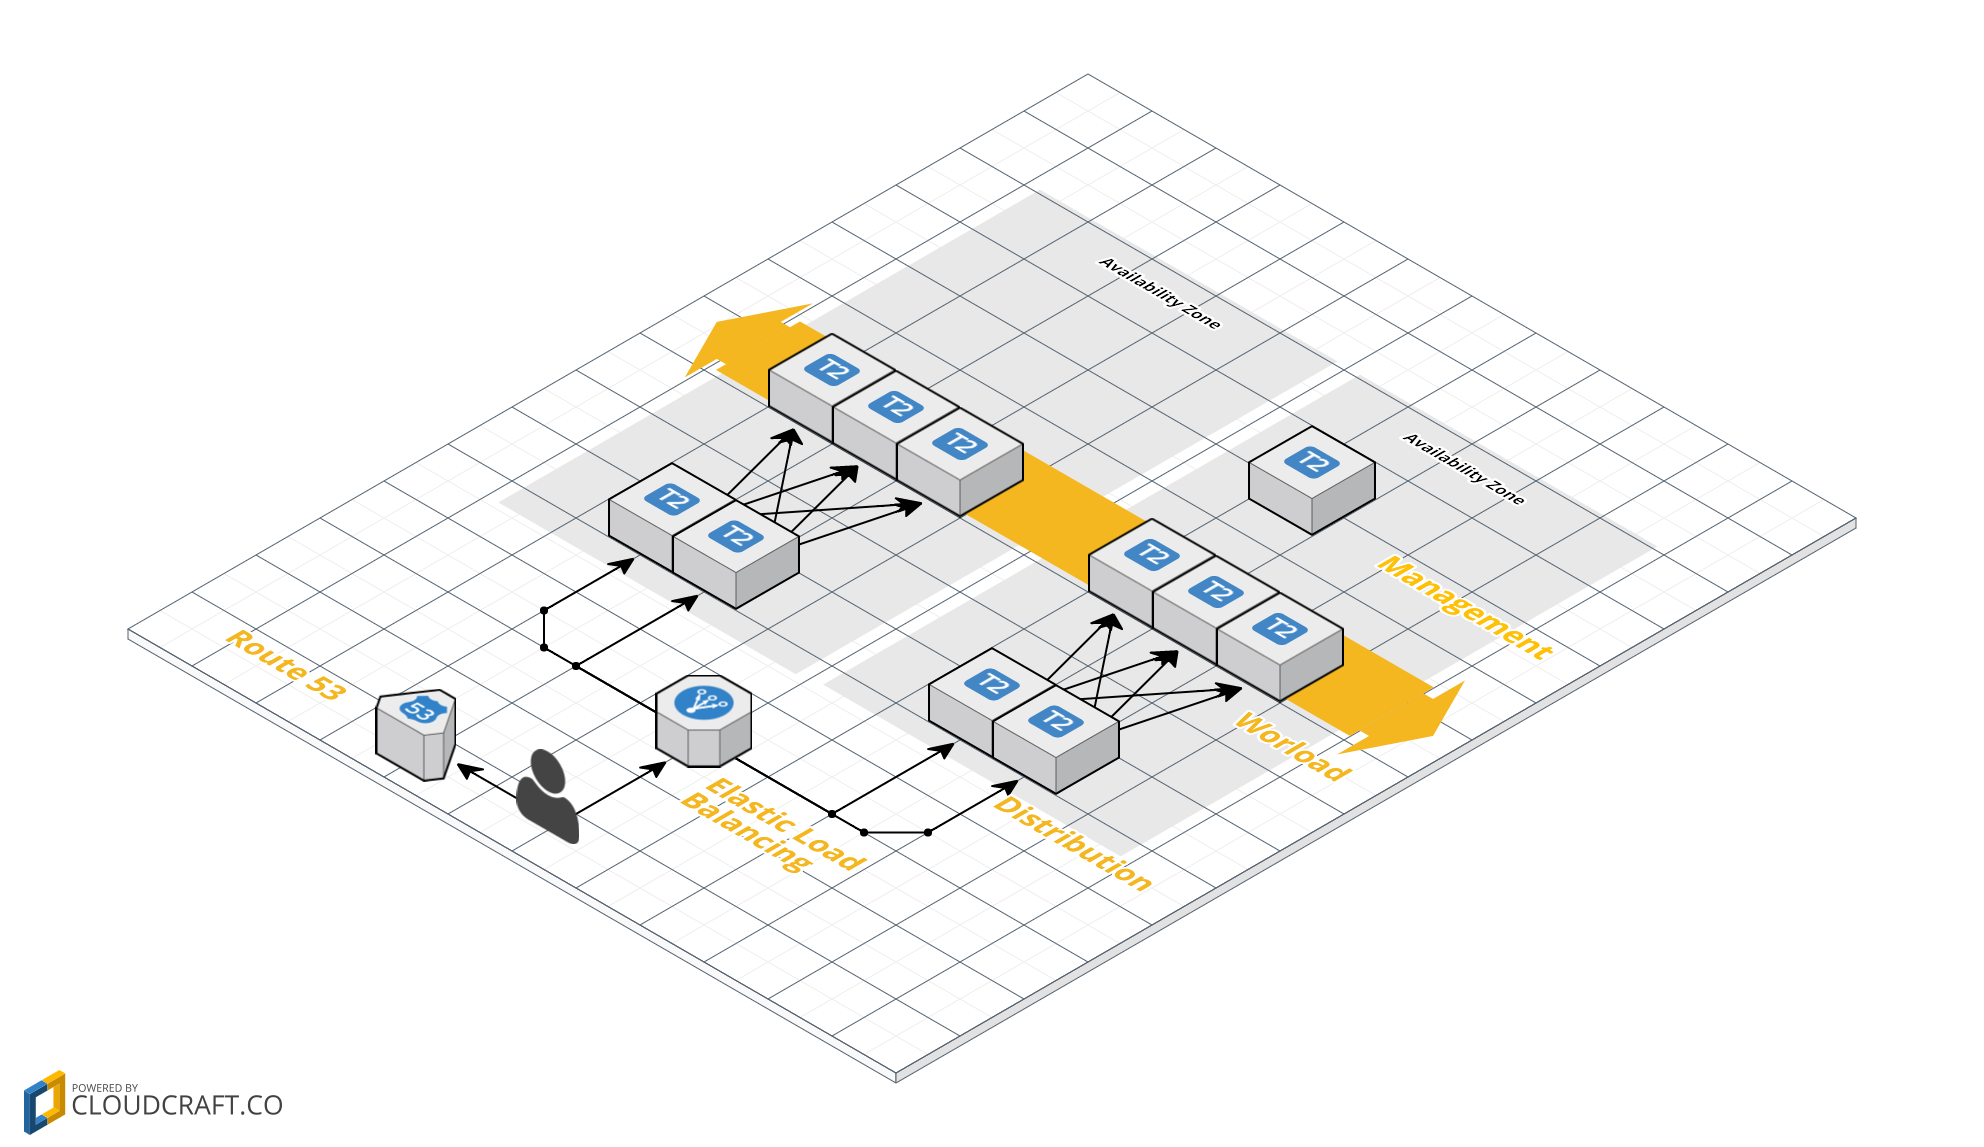
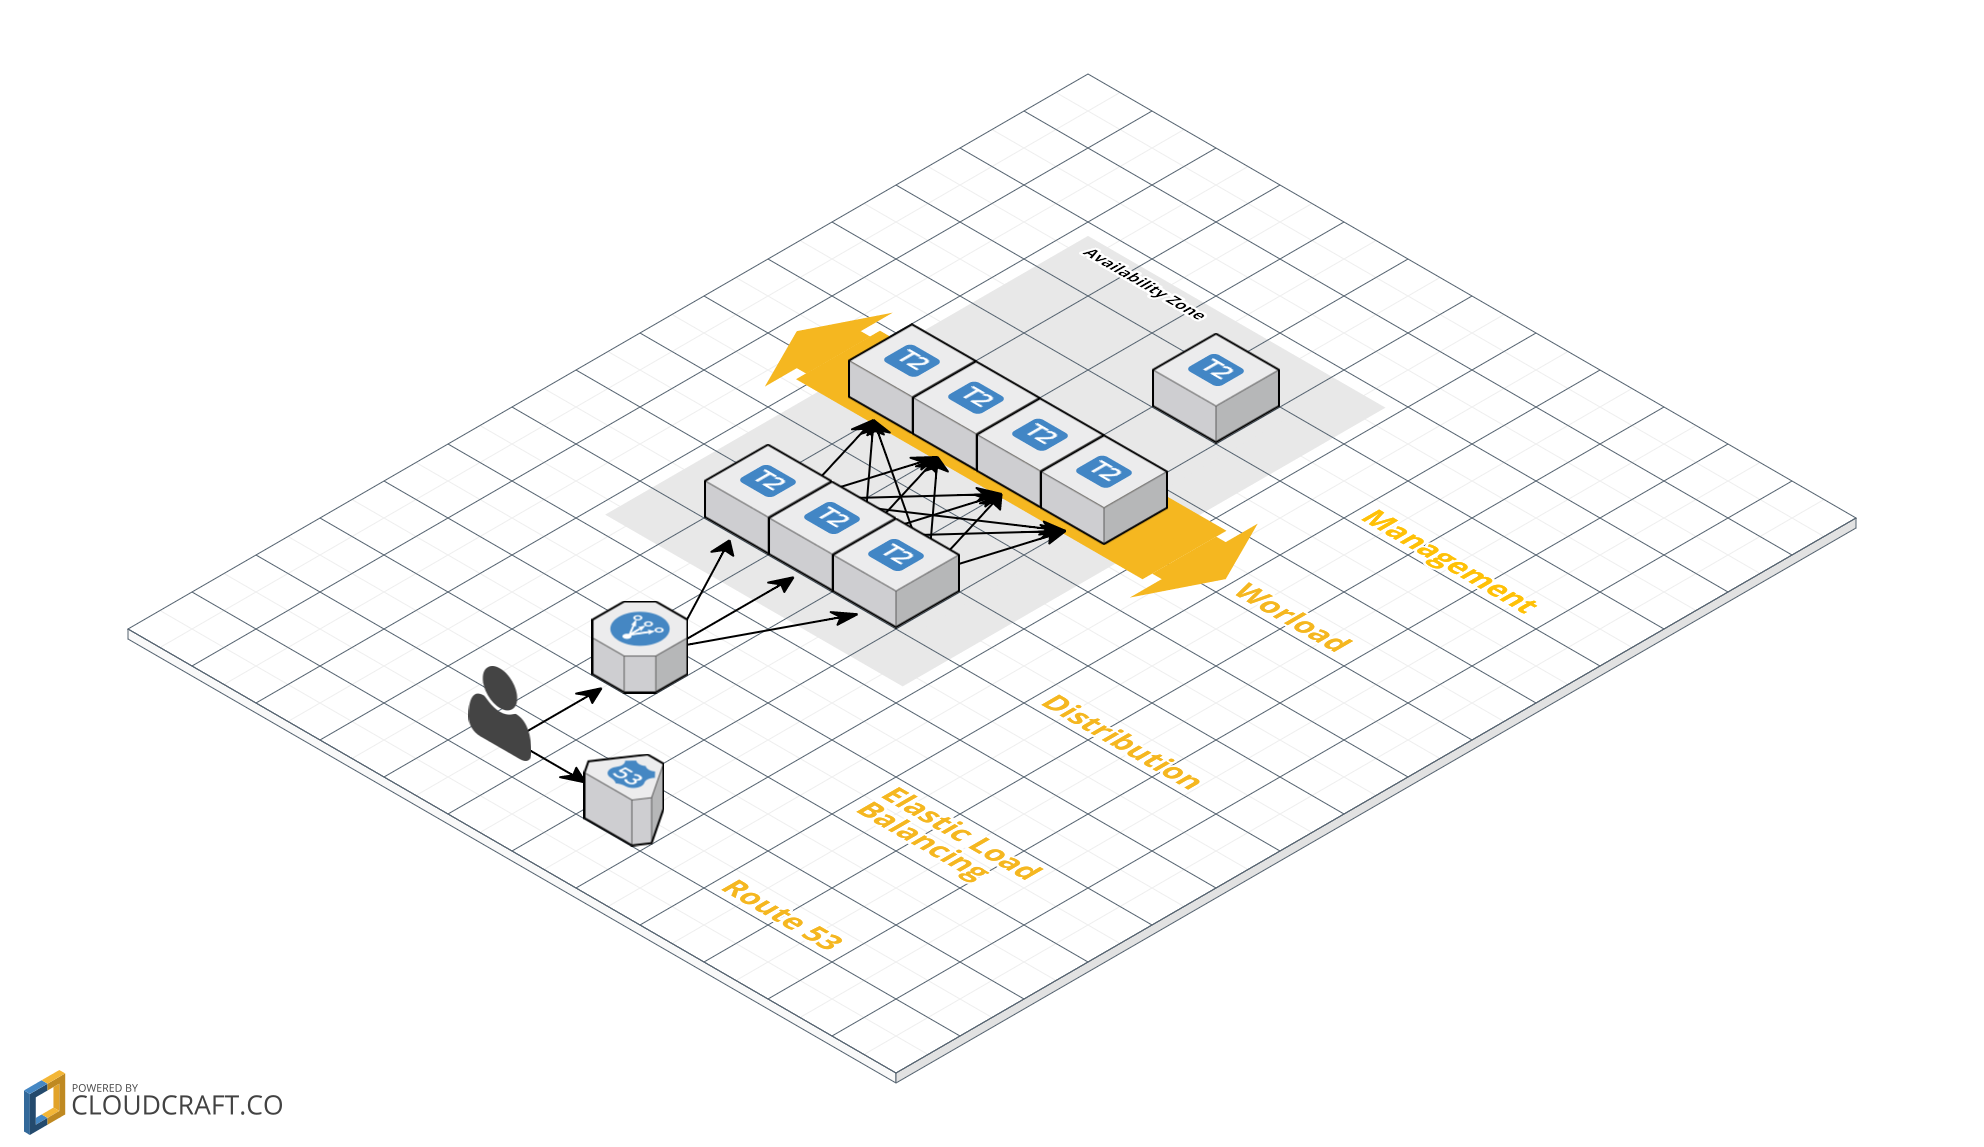
update image

diff --git a/README.md b/README.md
@@ -1,22 +1,18 @@
 What?
 =====
 
-Terraform and Puppet code to build a multi AZ docker compute setup with traefik
-and an ELB
+Terraform and Puppet code to build a single demo AZ docker compute setup with
+traefik and an ELB
 
-Each AZ has:
+The AZ has:
 
-  * 2 x Traefik + Consul servers per region - not ideal as you'd rather have
+  * 3 x Traefik + Consul servers per region - not ideal as you'd rather have
     a seperate consul cluster made up of an odd amount of nodes
-  * 3 x Docker compute nodes with consul client and registrator
+  * 4 x Docker compute nodes with consul client and registrator
 
 Additionally there is a Puppet Master running MCollective setup with Choria
 
 Any containers that start with exposed ports will immediately appear and be
 load balanced by the traefik cluster
-
-**NOTE:** today you would probably rather use ECS, Kubernetes, Deis or any of
-these tools to achieve this kind of setup, this is merely to support a talk
-and not meant as an indication of what I think a prod setup should look like
 
 ![AWS Network Architecture](aws.png)
